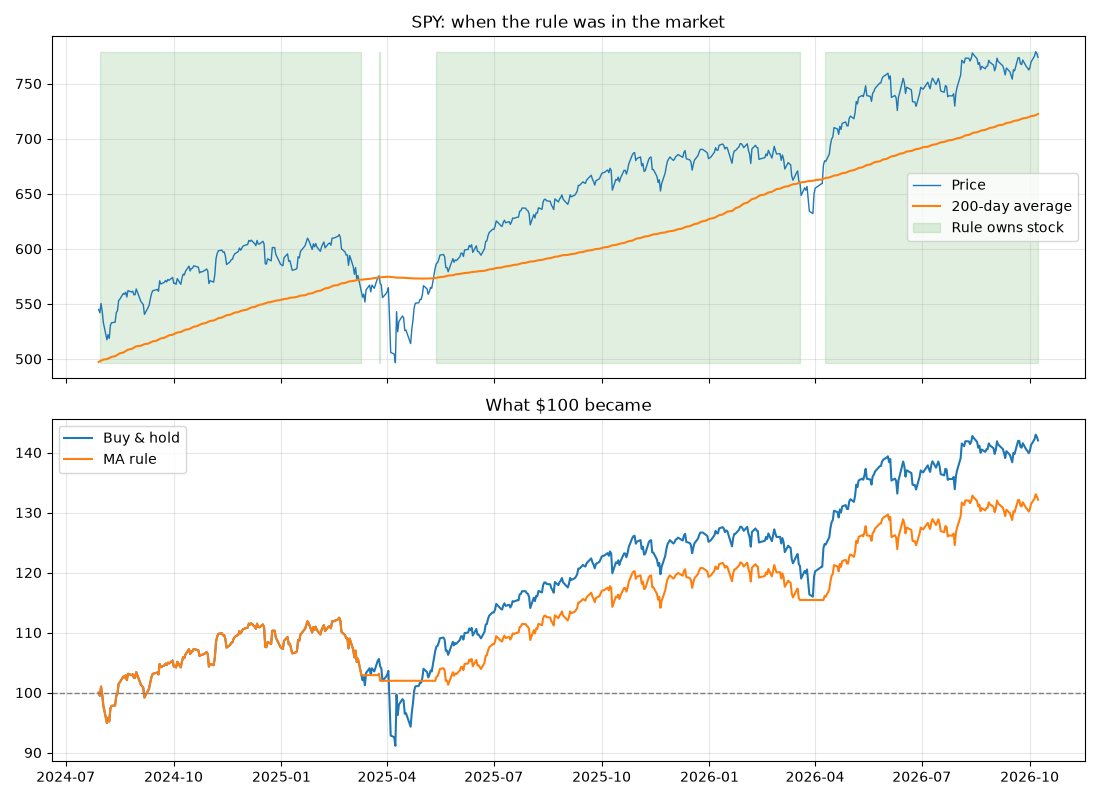
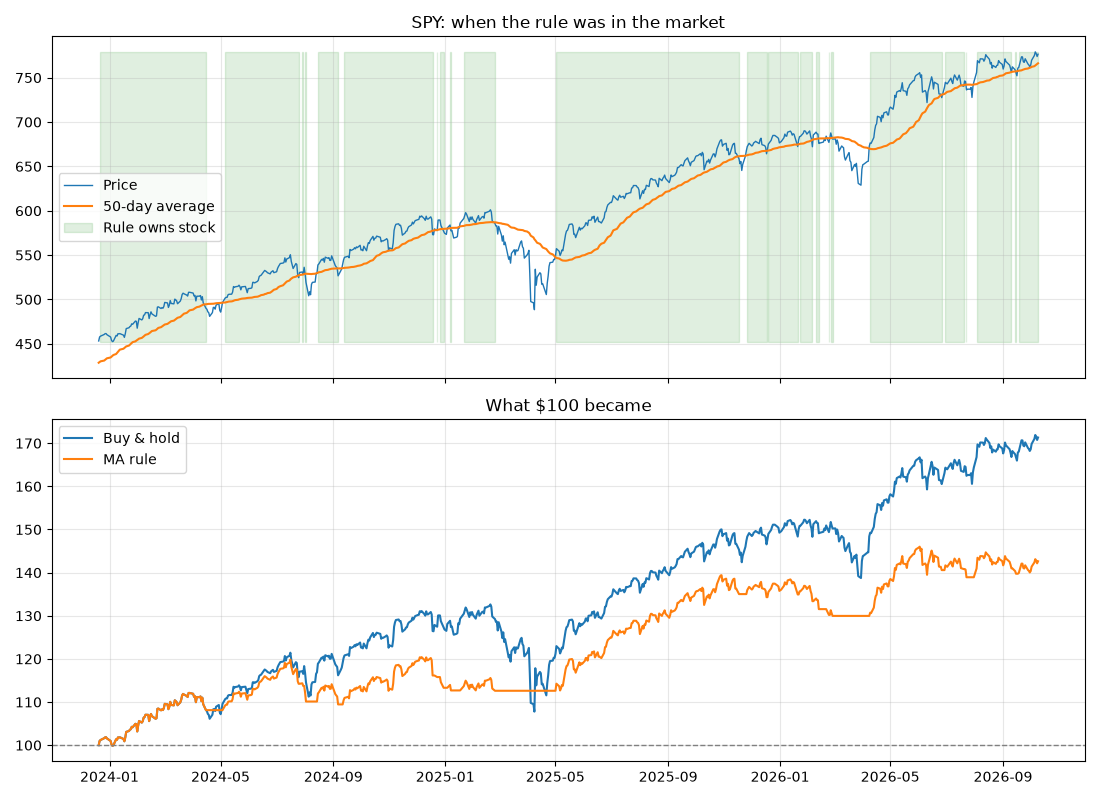
Lesson 19: diversification; fix split-adjusted prices in all daily price requests
Alpaca returns raw prices by default, which turned stock splits (e.g. NVDA June 2024)
into fake crashes. All daily bar requests now use Adjustment.ALL; README numbers refreshed.

diff --git a/step19_diversification.py b/step19_diversification.py
@@ -1,0 +1,119 @@
+"""
+STEP 19: Diversification - "don't put all your eggs in one basket".
+
+Part 1: build thousands of random portfolios of 1, 2, 5, 10 and 20 stocks
+        and measure how bumpy each one was. Does owning more stocks smooth the ride?
+Part 2: CORRELATION between stocks. Diversification only helps if the stocks
+        don't all move together - so which ones do?
+
+Everything uses an EQUAL-WEIGHT portfolio: the same amount of money in each stock.
+
+Run it with:   python step19_diversification.py
+
+New coding ideas in this lesson:
+  - ANNUALISING: turning a daily number into a yearly one (x sqrt(252) for volatility)
+  - RANDOM SAMPLING of combinations (Lesson 16's simulation idea again)
+  - a CORRELATION MATRIX: every stock compared with every other, shown as a HEATMAP
+"""
+
+import os
+
+import matplotlib.pyplot as plt
+import numpy as np
+import pandas as pd
+
+from helpers import annual_volatility, biggest_drop, daily_closes, portfolio_returns
+
+# 22 big US companies from different industries (SECTORS)
+SECTORS = {
+    "Tech":       ["AAPL", "MSFT", "NVDA", "AMD", "GOOGL", "META"],
+    "Consumer":   ["AMZN", "TSLA", "NFLX", "WMT", "COST", "HD", "KO", "PEP"],
+    "Finance":    ["JPM", "BAC", "GS"],
+    "Energy":     ["XOM", "CVX"],
+    "Health":     ["JNJ", "PFE"],
+    "Industrial": ["CAT"],
+}
+symbols = [s for group in SECTORS.values() for s in group]
+SIZES = [1, 2, 5, 10, 20]
+SAMPLES = 2000  # random portfolios per size
+
+print(f"Downloading 3 years of prices for {len(symbols)} stocks...")
+closes = daily_closes(symbols, days=365 * 3)
+returns = closes.pct_change().dropna()
+print(f"  {len(returns)} trading days, {closes.index[0]:%Y-%m-%d} -> {closes.index[-1]:%Y-%m-%d}\n")
+
+# --- Part 1: random portfolios of different sizes -----------------------------------
+rng = np.random.default_rng(0)
+results = []
+for size in SIZES:
+    for _ in range(SAMPLES):
+        picks = rng.choice(symbols, size=size, replace=False)  # random stocks, no repeats
+        daily = portfolio_returns(returns, picks)
+        value = 100 * (1 + daily).cumprod()
+        results.append({
+            "stocks": size,
+            "volatility_%": annual_volatility(daily),
+            "biggest_drop_%": biggest_drop(value),
+            "return_%": value.iloc[-1] - 100,
+        })
+table = pd.DataFrame(results)
+
+summary = table.groupby("stocks").agg(
+    typical_volatility=("volatility_%", "median"),
+    typical_drop=("biggest_drop_%", "median"),
+    worst_drop=("biggest_drop_%", "min"),
+    typical_return=("return_%", "median"),
+    worst_return=("return_%", "min"),
+)
+print(f"Part 1 - {SAMPLES:,} random portfolios per size (3 years, equal weight)\n")
+print(f"{'Stocks':>6} {'Volatility':>11} {'Typical drop':>13} {'Worst drop':>11} "
+      f"{'Typical return':>15} {'Worst return':>13}")
+for n, r in summary.iterrows():
+    print(f"{n:>6} {r['typical_volatility']:>10.1f}% {r['typical_drop']:>12.1f}% "
+          f"{r['worst_drop']:>10.1f}% {r['typical_return']:>+14.0f}% {r['worst_return']:>+12.0f}%")
+
+one, twenty = summary.loc[1], summary.loc[20]
+print(f"\nGoing from 1 to 20 stocks cut the typical volatility by "
+      f"{(1 - twenty['typical_volatility'] / one['typical_volatility']):.0%}, "
+      f"and the worst outcome went from {one['worst_return']:+.0f}% to {twenty['worst_return']:+.0f}%.")
+
+# --- Part 2: which stocks move together? --------------------------------------------
+corr = returns.corr()  # every stock vs every other stock: -1 to +1
+pairs = corr.where(np.triu(np.ones(corr.shape, dtype=bool), k=1)).stack().dropna()  # each pair once
+print("\nPart 2 - correlation of daily returns (1 = always move together, 0 = unrelated)")
+print("  Most alike:  " + ", ".join(f"{a}/{b} {c:.2f}" for (a, b), c in pairs.nlargest(4).items()))
+print("  Least alike: " + ", ".join(f"{a}/{b} {c:.2f}" for (a, b), c in pairs.nsmallest(4).items()))
+
+sector_of = {s: name for name, group in SECTORS.items() for s in group}
+same = [c for (a, b), c in pairs.items() if sector_of[a] == sector_of[b]]
+different = [c for (a, b), c in pairs.items() if sector_of[a] != sector_of[b]]
+print(f"  Average: same sector {np.mean(same):.2f}, different sectors {np.mean(different):.2f}")
+
+# A fair comparison: 5 tech stocks vs 5 stocks from 5 different sectors
+tech5 = ["AAPL", "MSFT", "NVDA", "GOOGL", "META"]
+mixed5 = ["AAPL", "JPM", "XOM", "JNJ", "KO"]
+for name, picks in [("5 tech stocks", tech5), ("5 different sectors", mixed5)]:
+    daily = portfolio_returns(returns, picks)
+    print(f"  {name:<20} {', '.join(picks):<28} volatility {annual_volatility(daily):.1f}%  "
+          f"biggest drop {biggest_drop(100 * (1 + daily).cumprod()):.1f}%")
+
+# --- Charts --------------------------------------------------------------------------
+fig, (left, right) = plt.subplots(1, 2, figsize=(14, 6), gridspec_kw={"width_ratios": [1, 1.2]})
+
+left.boxplot([table.loc[table["stocks"] == n, "volatility_%"] for n in SIZES],
+             tick_labels=[str(n) for n in SIZES], showfliers=False)
+left.set_title("Bumpiness of random portfolios\n(box = middle half of 2,000 portfolios)")
+left.set_xlabel("Number of stocks in the portfolio")
+left.set_ylabel("Annual volatility (%)")
+left.grid(alpha=0.3)
+
+image = right.imshow(corr, cmap="RdYlGn_r", vmin=0, vmax=1)
+right.set_xticks(range(len(symbols)), symbols, rotation=90, fontsize=8)
+right.set_yticks(range(len(symbols)), symbols, fontsize=8)
+right.set_title("Correlation heatmap (red = move together)")
+fig.colorbar(image, ax=right, shrink=0.8)
+
+plt.tight_layout()
+os.makedirs("data", exist_ok=True)
+plt.savefig("data/diversification.png")
+print("\nSaved chart to data/diversification.png")

diff --git a/helpers.py b/helpers.py
@@ -19,7 +19,7 @@ import certifi
 import numpy as np
 import pandas as pd
 from dotenv import load_dotenv
-from alpaca.data.enums import DataFeed
+from alpaca.data.enums import Adjustment, DataFeed
 from alpaca.data.historical import StockHistoricalDataClient
 from alpaca.data.historical.news import NewsClient
 from alpaca.data.live import StockDataStream
@@ -78,6 +78,7 @@ def daily_closes(symbols, days=365):
             timeframe=TimeFrame.Day,
             start=datetime.now() - timedelta(days=days),
             feed=DataFeed.IEX,
+            adjustment=Adjustment.ALL,  # adjust for stock splits & dividends (see Lesson 19)
         )
     )
     if isinstance(symbols, str):
@@ -96,6 +97,7 @@ def latest_session_minutes(symbol):
             timeframe=TimeFrame.Minute,
             start=datetime.now() - timedelta(days=4),  # enough to cover a weekend
             feed=DataFeed.IEX,
+            adjustment=Adjustment.ALL,  # adjust for stock splits & dividends (see Lesson 19)
         )
     )
     df = bars.df.loc[symbol]
@@ -227,6 +229,25 @@ def shuffle_test(values, chosen, n_shuffles=10_000, seed=0):
     ])
     p_value = (random_averages >= ours).mean()
     return ours, random_averages, p_value
+
+
+# --- Portfolios (Lesson 19) ----------------------------------------------------------
+
+def portfolio_returns(daily_returns, symbols):
+    """
+    Daily returns of an EQUAL-WEIGHT portfolio: the same amount in each stock,
+    topped back up to equal amounts every day (so it's just the average of their returns).
+    daily_returns: a table with one column per stock.
+    """
+    return daily_returns[list(symbols)].mean(axis=1)
+
+
+def annual_volatility(daily_returns):
+    """
+    How bumpy the ride is over a YEAR, in %. Daily ups and downs grow with the
+    square root of time, and a year has about 252 trading days, so: daily std x sqrt(252).
+    """
+    return pd.Series(daily_returns).std() * np.sqrt(252) * 100
 
 
 def biggest_drop(values):

diff --git a/tests/test_helpers.py b/tests/test_helpers.py
@@ -19,8 +19,8 @@ import pytest
 sys.path.insert(0, str(Path(__file__).resolve().parent.parent))
 
 from helpers import (  # noqa: E402
-    backtest, biggest_drop, grow_100, headline_sentiment, ma_rule_positions, shuffle_test,
-    trading_day_for,
+    annual_volatility, backtest, biggest_drop, grow_100, headline_sentiment, ma_rule_positions,
+    portfolio_returns, shuffle_test, trading_day_for,
 )
 
 
@@ -153,3 +153,24 @@ def test_shuffle_test_shrugs_at_a_typical_pick():
 def test_shuffle_test_is_repeatable_with_a_seed():
     values, chosen = list(range(50)), [i < 5 for i in range(50)]
     assert shuffle_test(values, chosen, seed=1)[2] == shuffle_test(values, chosen, seed=1)[2]
+
+
+# --- portfolios ---------------------------------------------------------------------
+
+def test_portfolio_is_the_average_of_its_stocks():
+    returns = pd.DataFrame({"A": [0.02, -0.01], "B": [0.00, 0.03], "C": [0.5, 0.5]})
+    assert list(portfolio_returns(returns, ["A", "B"])) == pytest.approx([0.01, 0.01])
+
+
+def test_opposite_stocks_cancel_out():
+    # A zigs when B zags: each one alone is bumpy, together they're perfectly smooth
+    returns = pd.DataFrame({"A": [0.02, -0.02] * 50, "B": [-0.02, 0.02] * 50})
+    assert annual_volatility(returns["A"]) > 25
+    assert annual_volatility(portfolio_returns(returns, ["A", "B"])) == pytest.approx(0)
+
+
+def test_identical_stocks_give_no_benefit():
+    returns = pd.DataFrame({"A": [0.02, -0.01, 0.03, -0.02]})
+    returns["B"] = returns["A"]  # B always moves exactly like A
+    together = annual_volatility(portfolio_returns(returns, ["A", "B"]))
+    assert together == pytest.approx(annual_volatility(returns["A"]))

diff --git a/step6_overfitting.py b/step6_overfitting.py
@@ -29,7 +29,7 @@ from datetime import datetime, timedelta
 import matplotlib.pyplot as plt
 import pandas as pd
 from dotenv import load_dotenv
-from alpaca.data.enums import DataFeed
+from alpaca.data.enums import Adjustment, DataFeed
 from alpaca.data.historical import StockHistoricalDataClient
 from alpaca.data.requests import StockBarsRequest
 from alpaca.data.timeframe import TimeFrame
@@ -51,6 +51,7 @@ bars = client.get_stock_bars(
         timeframe=TimeFrame.Day,
         start=datetime.now() - timedelta(days=365 * 6),  # 6 years: more history = fairer test
         feed=DataFeed.IEX,
+        adjustment=Adjustment.ALL,  # adjust for stock splits & dividends (see Lesson 19)
     )
 )
 close = bars.df.loc[symbol]["close"]

diff --git a/step8_bot.py b/step8_bot.py
@@ -37,7 +37,7 @@ import sys
 from datetime import datetime, timedelta
 
 from dotenv import load_dotenv
-from alpaca.data.enums import DataFeed
+from alpaca.data.enums import Adjustment, DataFeed
 from alpaca.data.historical import StockHistoricalDataClient
 from alpaca.data.requests import StockBarsRequest
 from alpaca.data.timeframe import TimeFrame
@@ -71,6 +71,7 @@ def latest_signal(symbol, clock):
             timeframe=TimeFrame.Day,
             start=datetime.now() - timedelta(days=MA_DAYS * 2 + 30),  # enough days for the average
             feed=DataFeed.IEX,
+            adjustment=Adjustment.ALL,  # adjust for stock splits & dividends (see Lesson 19)
         )
     )
     close = bars.df.loc[symbol]["close"]

diff --git a/step5_backtest.py b/step5_backtest.py
@@ -25,7 +25,7 @@ from datetime import datetime, timedelta
 
 import matplotlib.pyplot as plt
 from dotenv import load_dotenv
-from alpaca.data.enums import DataFeed
+from alpaca.data.enums import Adjustment, DataFeed
 from alpaca.data.historical import StockHistoricalDataClient
 from alpaca.data.requests import StockBarsRequest
 from alpaca.data.timeframe import TimeFrame
@@ -47,6 +47,7 @@ bars = client.get_stock_bars(
         timeframe=TimeFrame.Day,
         start=datetime.now() - timedelta(days=365 * years),
         feed=DataFeed.IEX,
+        adjustment=Adjustment.ALL,  # adjust for stock splits & dividends (see Lesson 19)
     )
 )
 df = bars.df.loc[symbol][["close"]].copy()

diff --git a/step3_save_and_chart.py b/step3_save_and_chart.py
@@ -16,7 +16,7 @@ from datetime import datetime, timedelta
 
 import matplotlib.pyplot as plt
 from dotenv import load_dotenv
-from alpaca.data.enums import DataFeed
+from alpaca.data.enums import Adjustment, DataFeed
 from alpaca.data.historical import StockHistoricalDataClient
 from alpaca.data.requests import StockBarsRequest
 from alpaca.data.timeframe import TimeFrame
@@ -37,6 +37,7 @@ bars = client.get_stock_bars(
         timeframe=TimeFrame.Day,
         start=datetime.now() - timedelta(days=365),
         feed=DataFeed.IEX,
+        adjustment=Adjustment.ALL,  # adjust for stock splits & dividends (see Lesson 19)
     )
 )
 

diff --git a/step4_compare.py b/step4_compare.py
@@ -22,7 +22,7 @@ from datetime import datetime, timedelta
 
 import matplotlib.pyplot as plt
 from dotenv import load_dotenv
-from alpaca.data.enums import DataFeed
+from alpaca.data.enums import Adjustment, DataFeed
 from alpaca.data.historical import StockHistoricalDataClient
 from alpaca.data.requests import StockBarsRequest
 from alpaca.data.timeframe import TimeFrame
@@ -46,6 +46,7 @@ bars = client.get_stock_bars(
         timeframe=TimeFrame.Day,
         start=datetime.now() - timedelta(days=365),
         feed=DataFeed.IEX,
+        adjustment=Adjustment.ALL,  # adjust for stock splits & dividends (see Lesson 19)
     )
 )
 

diff --git a/step2_prices.py b/step2_prices.py
@@ -12,7 +12,7 @@ import sys
 from datetime import datetime, timedelta
 
 from dotenv import load_dotenv
-from alpaca.data.enums import DataFeed
+from alpaca.data.enums import Adjustment, DataFeed
 from alpaca.data.historical import StockHistoricalDataClient
 from alpaca.data.requests import StockBarsRequest, StockLatestTradeRequest
 from alpaca.data.timeframe import TimeFrame
@@ -45,6 +45,7 @@ bars = client.get_stock_bars(
         timeframe=TimeFrame.Day,
         start=datetime.now() - timedelta(days=30),
         feed=FEED,
+        adjustment=Adjustment.ALL,  # adjust for stock splits & dividends (see Lesson 19)
     )
 )
 

diff --git a/README.md b/README.md
@@ -8,7 +8,7 @@ A hands-on learning project that uses the **[Alpaca](https://alpaca.markets) API
 live and historical stock market data, test trading rules honestly, run a paper-trading bot,
 and show it all on a live web dashboard.
 
-It's built as **18 small, heavily commented lessons**, each one adding a new coding idea.
+It's built as **19 small, heavily commented lessons**, each one adding a new coding idea.
 
 > ⚠ Educational project only. Paper trading (fake money). Not financial advice.
 
@@ -33,7 +33,7 @@ These are real results from this project's own data (Oct 2023 – Oct 2026):
 1. **A simple trend-following rule didn't beat buy & hold.** On 5 stocks over 3 years, it lost to
    simply holding every time, although it did reduce the worst drops (SPY: −9% vs −19%).
 2. **Optimising settings creates false confidence.** The best Tesla setting on training data
-   turned $100 into $354. On unseen data, the same setting turned $100 into $76.
+   turned $100 into $383. On unseen data, the same setting turned $100 into $85.
    **0 of 39** settings beat buy & hold out-of-sample.
 3. **Busy news days really are bigger move days.** On the busiest 20% of news days, AAPL and TSLA moved
    about 1.5× as much as on a typical day. A shuffle test confirmed this for **8 of 12 stocks** (p < 0.05), so it's
@@ -44,6 +44,9 @@ These are real results from this project's own data (Oct 2023 – Oct 2026):
 5. **A real AI model didn't change that.** FinBERT, run locally, read headlines far better than the
    word list (it wasn't fooled by "…Earnings Beat" in a negative story), yet its "good news" days
    predicted the next day for **0 of 12** stocks. Better reading ≠ a trading edge.
+6. **Diversification is the closest thing to a free lunch.** Across 2,000 random portfolios each, going
+   from 1 to 20 stocks cut volatility by ~40% and lifted the *worst* 3-year result from −14% to +99%.
+   5 tech stocks were twice as bumpy as 5 stocks from 5 different sectors (24% vs 12% volatility).
 
 <table>
 <tr>
@@ -57,10 +60,15 @@ These are real results from this project's own data (Oct 2023 – Oct 2026):
 <tr>
 <td colspan="2"><img src="docs/images/luck_test.png" alt="Shuffle tests: real results vs 10,000 random picks of days"></td>
 </tr>
+<tr>
+<td colspan="2"><img src="docs/images/diversification.png" alt="Volatility vs number of stocks, and correlation heatmap of 22 stocks"></td>
+</tr>
 </table>
 
 ## Things I was careful about
 
+- **Split-adjusted prices.** Alpaca returns raw prices by default, which turns stock splits into
+  fake 90% crashes (NVDA, June 2024). All requests use `Adjustment.ALL`. Found while building lesson 19.
 - **No look-ahead bias.** Signals act the *next* day (`shift(1)`), and news published after the
   16:00 New York close is matched to the next trading day. Both are covered by unit tests.
 - **Trading costs** are included in backtests (0.1% per switch).
@@ -122,7 +130,7 @@ Cron skips runs while the Mac is asleep or off, which is fine: the next run catc
 ├── helpers.py                # shared tools: Alpaca clients, data download, backtest maths
 ├── crawler.py                # polite news crawler: RSS, archive, robots.txt, article text
 ├── ai_sentiment.py           # FinBERT sentiment, run locally, with a score cache
-├── step1_connect.py … step18_ai_sentiment.py   # the lessons (see below)
+├── step1_connect.py … step19_diversification.py   # the lessons (see below)
 ├── step11_dashboard.py       # Streamlit dashboard (live section added in lesson 14)
 ├── tests/                    # unit tests on fake data (no internet or keys needed)
 ├── .github/workflows/        # CI: runs the tests on every push
@@ -154,6 +162,7 @@ Cron skips runs while the Mac is asleep or off, which is fine: the next run catc
 | 16 | `step16_luck_test.py` | Real or luck? Shuffle tests, p-values, multiple testing: numpy, random seeds, simulation |
 | 17 | `step17_news_crawler.py` | Your own polite web crawler and a growing news archive: classes, XML/RSS, HTTP, de-duplication |
 | 18 | `step18_ai_sentiment.py` | A free AI (FinBERT) reads the news on your Mac: pre-trained models, probabilities, mocks, caching |
+| 19 | `step19_diversification.py` | Diversification: random portfolios, annualised volatility, correlation heatmap, split-adjusted prices |
 
 ## Built with
 
@@ -198,6 +207,12 @@ GitHub Actions
 - **Limit order**: buy/sell only at your price or better. You pick the price, but it may never fill.
 - **Position**: a stock you currently own. **Filled**: the order actually happened.
 - **Unrealized profit/loss**: how much a position is up or down on paper, before you sell.
+- **Stock split**: a company turns each share into several cheaper ones (e.g. 1 → 10). Raw prices drop, but nobody loses money.
+- **Adjusted prices**: old prices rewritten to account for splits and dividends, so charts and returns stay honest.
+- **Diversification**: spreading money over many investments so one bad one can't sink you.
+- **Equal weight**: the same amount of money in each stock.
+- **Sector**: a group of companies in the same industry (tech, energy, banks…), which tend to move together.
+- **Rotation**: money moving out of one group of stocks and into another, so they move in opposite directions.
 
 **Testing strategies**
 - **Backtest**: replaying a trading rule on old prices to see how it would have done.
@@ -226,6 +241,8 @@ GitHub Actions
 - **NumPy**: a library for fast maths on whole lists of numbers at once.
 - **Random seed**: a starting number that makes "random" results repeatable.
 - **Histogram**: a bar chart of how often each value came up.
+- **Annualise**: turn a daily number into a yearly one (volatility: daily × √252 trading days).
+- **Heatmap**: a grid of coloured squares, where colour shows the size of each number.
 - **Class**: a bundle of data and the functions that work on it (e.g. `PoliteFetcher`).
 - **Hash**: a short fingerprint of some text; the same text always gives the same hash.
 - **De-duplication**: making sure the same item is never stored twice.
